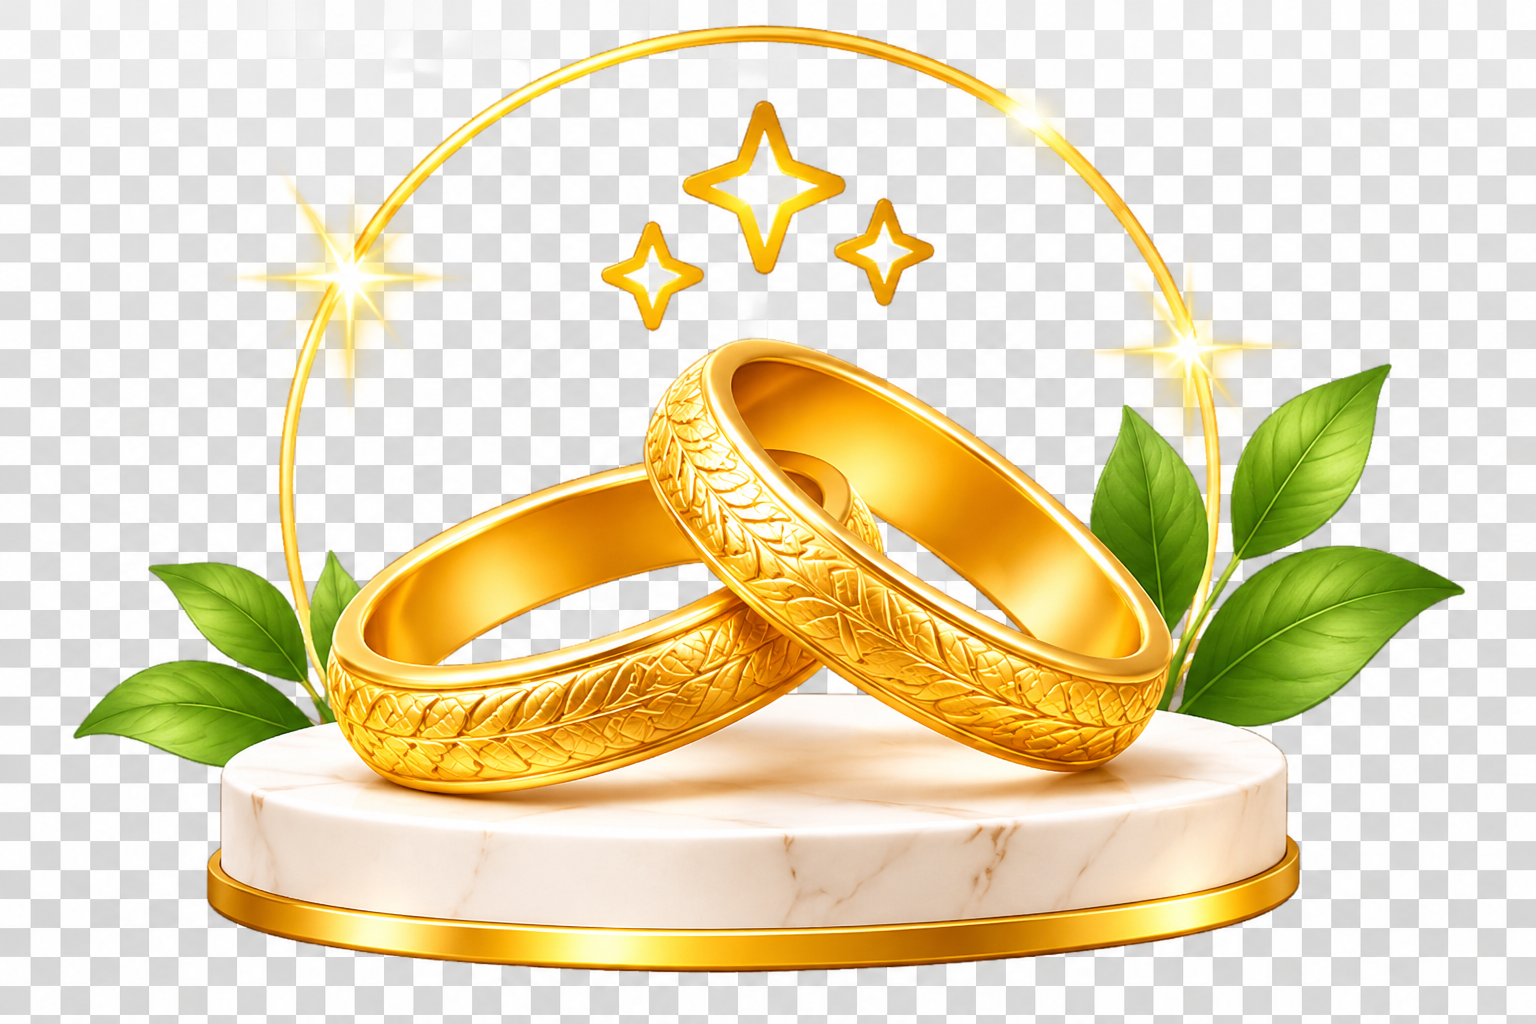
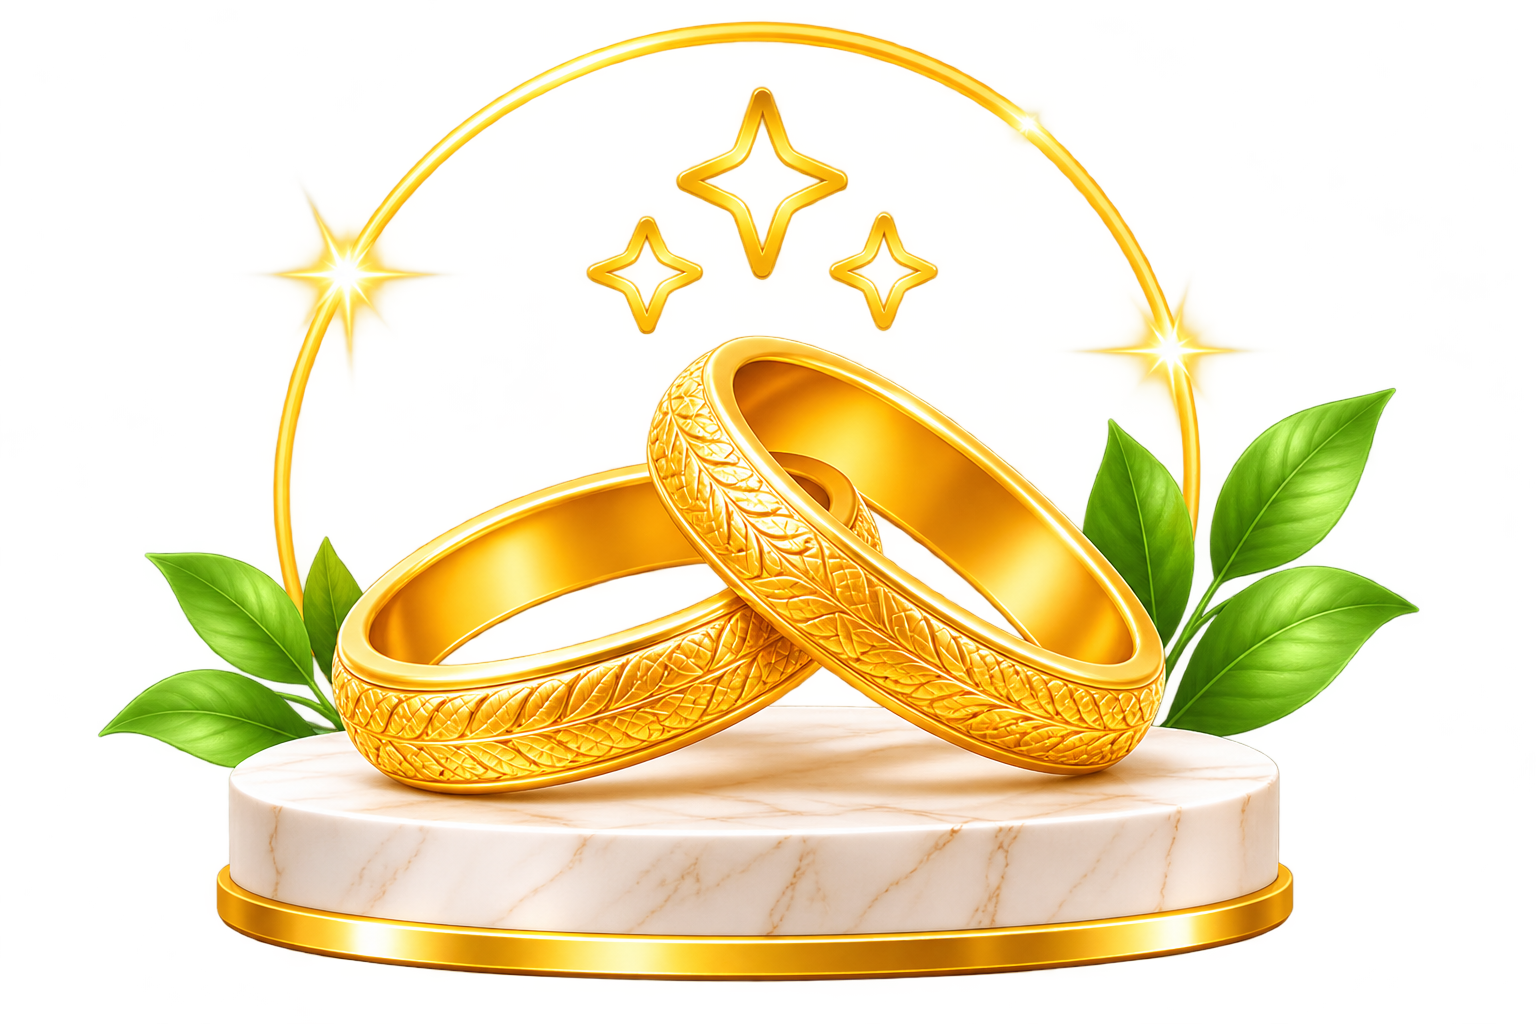
fix it

diff --git a/src/User/Welcome/WelcomeScreen.tsx b/src/User/Welcome/WelcomeScreen.tsx
@@ -42,14 +42,16 @@ function WelcomeScreen({ onComplete, onSignIn }: WelcomeScreenProps) {
   const [activeIndex, setActiveIndex] = useState(0);
   const slide = WELCOME_SLIDES[activeIndex];
   const isLastSlide = activeIndex === WELCOME_SLIDES.length - 1;
+  const isFirstSlide = activeIndex === 0;
+  const textColor = isFirstSlide ? 'text-[#073b2f]' : 'text-white';
 
   return (
-    <View className="flex-1 bg-[#003b2d]">
-      <StatusBar barStyle="light-content" />
+    <View className={`flex-1 ${isFirstSlide ? 'bg-[#fffaf3]' : 'bg-[#003b2d]'}`}>
+      <StatusBar barStyle={isFirstSlide ? 'dark-content' : 'light-content'} />
       <SafeAreaView className="flex-1 px-6 pb-5">
         <View className="flex-row items-center justify-between pt-2">
           <View className="flex-row items-center">
-            <View className="h-12 w-12 items-center justify-center rounded-2xl bg-white p-1.5">
+            <View className="h-12 w-12 items-center justify-center rounded-2xl border border-[#d6c8ad] bg-white p-1.5">
               <Image
                 source={require('../../Images/logo.png')}
                 className="h-full w-full"
@@ -58,46 +60,91 @@ function WelcomeScreen({ onComplete, onSignIn }: WelcomeScreenProps) {
               />
             </View>
             <View className="ml-3">
-              <Text className="text-base font-black tracking-wide text-white">
+              <Text className={`text-base font-black tracking-wide ${textColor}`}>
                 SRI GOLDS
               </Text>
-              <Text className="mt-0.5 text-[9px] font-bold tracking-[2px] text-[#f2d58a]">
+              <Text className="mt-0.5 text-[9px] font-bold tracking-[2px] text-[#b77a17]">
                 GOLD · JEWELLERY · LOANS
               </Text>
             </View>
           </View>
           {!isLastSlide ? (
             <Pressable
-              className="rounded-full border border-white/20 px-4 py-2"
+              className={`rounded-full border px-4 py-2 ${
+                isFirstSlide
+                  ? 'border-[#315d50] bg-white/70'
+                  : 'border-white/20'
+              }`}
               onPress={onComplete}
               accessibilityRole="button"
               accessibilityLabel="Skip welcome screens"
             >
-              <Text className="text-sm font-semibold text-white/85">Skip</Text>
+              <Text
+                className={`text-sm font-semibold ${
+                  isFirstSlide ? 'text-[#073b2f]' : 'text-white/85'
+                }`}
+              >
+                Skip
+              </Text>
             </Pressable>
           ) : null}
         </View>
 
         <View className="flex-1 justify-center">
           <View className="items-center">
-            <View className="h-60 w-60 items-center justify-center rounded-full border border-[#d9a441]/50 bg-[#064c3d]">
-              <View className="h-44 w-44 items-center justify-center rounded-full border border-[#f2d58a]/40 bg-[#003b2d]">
-                <Ionicons name={slide.icon} size={86} color="#f2d58a" />
-              </View>
-              <View className="absolute right-8 top-8 h-4 w-4 rounded-full bg-[#f2d58a]" />
-              <View className="absolute bottom-10 left-5 h-2.5 w-2.5 rounded-full bg-[#d9a441]" />
-            </View>
-            <View className="mt-10 items-center">
-              <Text className="text-xs font-extrabold tracking-[3px] text-[#f2d58a]">
-                {slide.eyebrow}
-              </Text>
-              <Text className="mt-4 text-center text-3xl font-black leading-10 text-white">
-                {slide.title}
-              </Text>
-              <Text className="mt-4 max-w-[320px] text-center text-base leading-7 text-emerald-50/80">
-                {slide.description}
-              </Text>
-            </View>
+            {isFirstSlide ? (
+              <>
+                <Image
+                  source={require('../../Images/welcome1.png')}
+                  className="h-56 w-full"
+                  resizeMode="contain"
+                  accessibilityLabel="Gold wedding rings on a display stand"
+                />
+                <View className="mt-5 w-full items-center">
+                  <View className="flex-row items-center">
+                    <View className="mr-3 h-px w-8 bg-[#d9a441]" />
+                    <Text className="text-xs font-extrabold tracking-[3px] text-[#073b2f]">
+                      {slide.eyebrow}
+                    </Text>
+                    <View className="ml-3 h-px w-8 bg-[#d9a441]" />
+                  </View>
+                  <Text className="mt-4 text-center font-serif text-[32px] font-bold leading-[38px] text-[#073b2f]">
+                    Find jewellery
+                    {'\n'}that{' '}
+                    <Text className="italic text-[#c47e12]">feels like you</Text>
+                  </Text>
+                  <View className="mt-3 flex-row items-center">
+                    <View className="mr-3 h-px w-12 bg-[#d9a441]" />
+                    <Ionicons name="diamond-outline" size={23} color="#c47e12" />
+                    <View className="ml-3 h-px w-12 bg-[#d9a441]" />
+                  </View>
+                  <Text className="mt-3 max-w-[340px] text-center text-base leading-6 text-[#555555]">
+                    {slide.description}
+                  </Text>
+                </View>
+              </>
+            ) : (
+              <>
+                <View className="h-60 w-60 items-center justify-center rounded-full border border-[#d9a441]/50 bg-[#064c3d]">
+                  <View className="h-44 w-44 items-center justify-center rounded-full border border-[#f2d58a]/40 bg-[#003b2d]">
+                    <Ionicons name={slide.icon} size={86} color="#f2d58a" />
+                  </View>
+                  <View className="absolute right-8 top-8 h-4 w-4 rounded-full bg-[#f2d58a]" />
+                  <View className="absolute bottom-10 left-5 h-2.5 w-2.5 rounded-full bg-[#d9a441]" />
+                </View>
+                <View className="mt-10 items-center">
+                  <Text className="text-xs font-extrabold tracking-[3px] text-[#f2d58a]">
+                    {slide.eyebrow}
+                  </Text>
+                  <Text className="mt-4 text-center text-3xl font-black leading-10 text-white">
+                    {slide.title}
+                  </Text>
+                  <Text className="mt-4 max-w-[320px] text-center text-base leading-7 text-emerald-50/80">
+                    {slide.description}
+                  </Text>
+                </View>
+              </>
+            )}
           </View>
         </View>
 
@@ -108,14 +155,18 @@ function WelcomeScreen({ onComplete, onSignIn }: WelcomeScreenProps) {
                 key={item.eyebrow}
                 className={`h-1.5 rounded-full ${
                   index === activeIndex
-                    ? 'w-8 bg-[#f2d58a]'
-                    : 'w-1.5 bg-white/35'
+                    ? `w-8 ${isFirstSlide ? 'bg-[#073b2f]' : 'bg-[#f2d58a]'}`
+                    : `w-1.5 ${isFirstSlide ? 'bg-[#e7cda0]' : 'bg-white/35'}`
                 }`}
               />
             ))}
           </View>
           <Pressable
-            className="h-14 flex-row items-center justify-center rounded-full bg-[#f2d58a] px-6"
+            className={`h-14 flex-row items-center justify-center rounded-full px-6 ${
+              isFirstSlide
+                ? 'border border-[#e1a318] bg-[#004533]'
+                : 'bg-[#f2d58a]'
+            }`}
             onPress={() =>
               isLastSlide
                 ? onComplete()
@@ -123,11 +174,19 @@ function WelcomeScreen({ onComplete, onSignIn }: WelcomeScreenProps) {
             }
             accessibilityRole="button"
           >
-            <Text className="text-base font-extrabold text-[#123c2d]">
+            <Text
+              className={`text-base font-extrabold ${
+                isFirstSlide ? 'text-white' : 'text-[#123c2d]'
+              }`}
+            >
               {isLastSlide ? 'Explore Sri Golds' : 'Continue'}
             </Text>
             <View className="ml-2">
-              <Ionicons name="arrow-forward" size={18} color="#123c2d" />
+              <Ionicons
+                name="arrow-forward"
+                size={18}
+                color={isFirstSlide ? '#FFFFFF' : '#123c2d'}
+              />
             </View>
           </Pressable>
           {isLastSlide ? (
